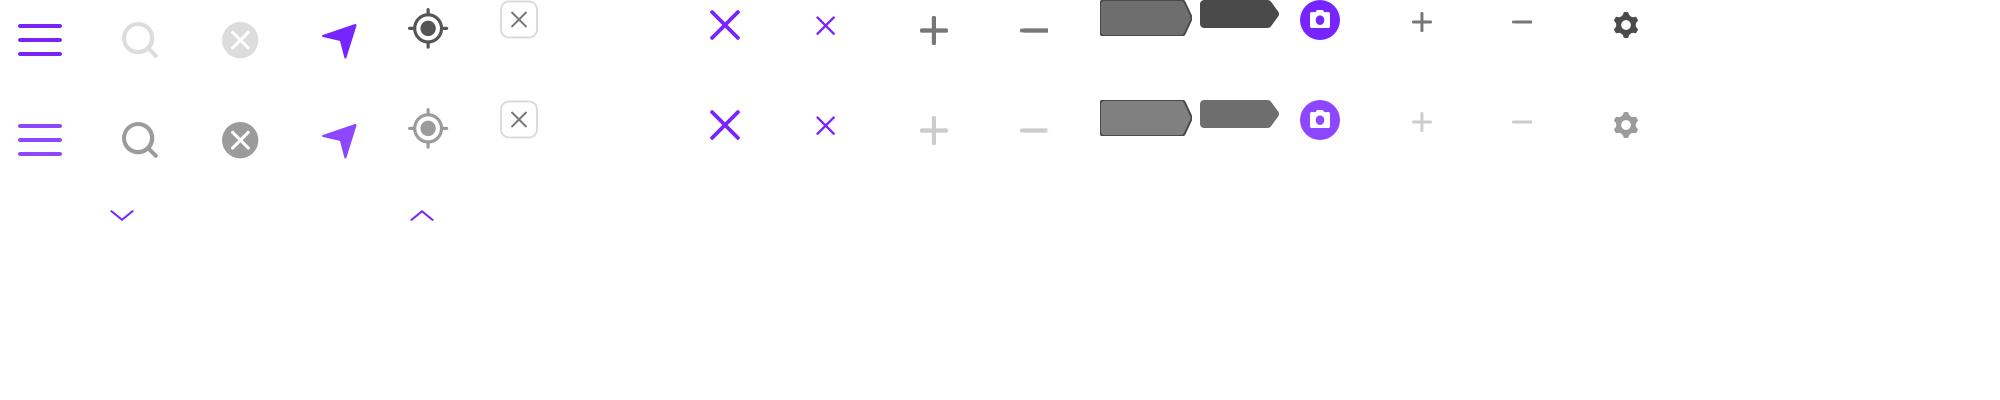
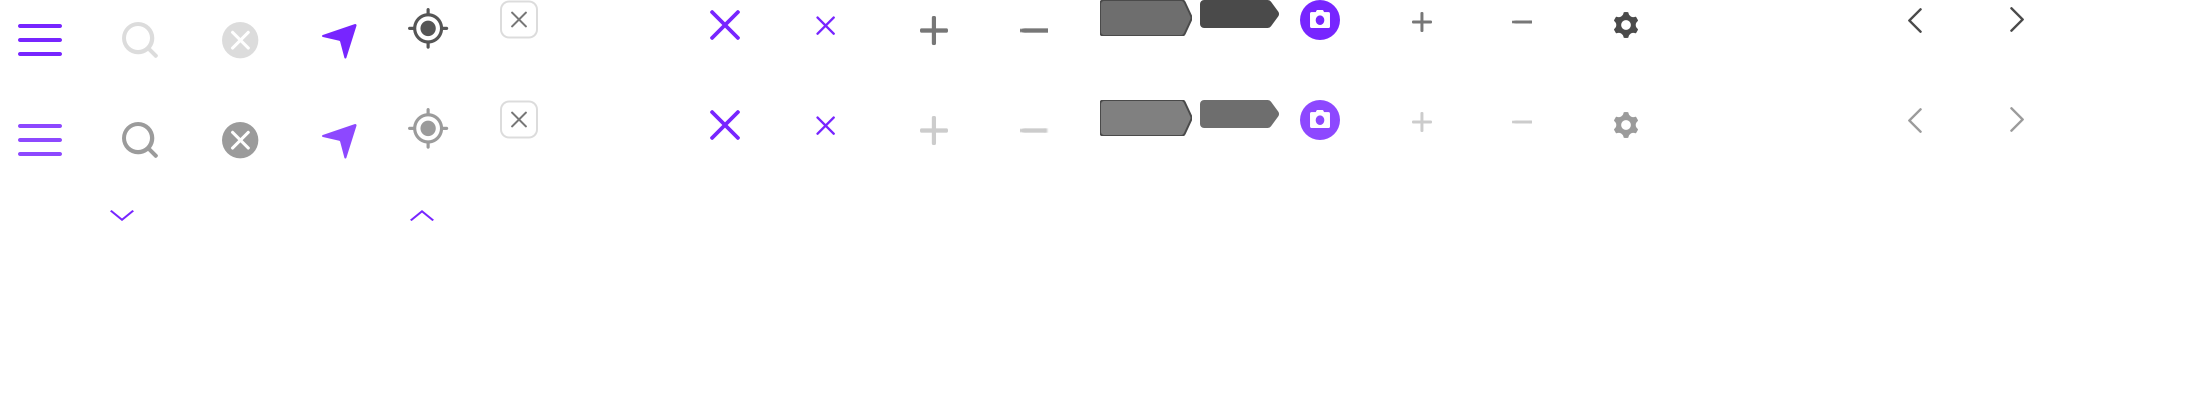
길찾기 검색결과 - 노드선택

diff --git a/mobile/css/gisweb_mobile.css b/mobile/css/gisweb_mobile.css
@@ -7,7 +7,7 @@ html,body{height:100%;word-break:break-all;word-wrap:break-word;}
 html,*,::before,::after{-moz-box-sizing:border-box;-webkit-box-sizing:border-box;box-sizing:border-box;-ms-text-size-adjust: 100%; -webkit-text-size-adjust: 100%;}
 html, body, div, span, object, iframe, h1, h2, h3, h4, h5, h6, p, blockquote, pre,a, abbr, acronym, address, big, cite, code, del, dfn, em, img, ins, kbd, q, s, samp,small, strike, strong, sub, sup, tt, var, b, u, i, dl, dt, dd, ol, ul, li,
 fieldset, form, label, legend, table, caption, tbody, tfoot, thead, tr, th, td,article, aside, canvas, details, embed, figure, figcaption, footer, header, hgroup, pre
-menu, nav, output, section, summary, time, mark, audio, video,input,textarea,select,button{margin:0;padding:0;font-family: 'Roboto', 'Noto Sans KR', sans-serif;font-size: 1em;}
+menu, nav, output, section, summary, time, mark, audio, video,input,textarea,select,button{margin:0;padding:0;font-family: 'Roboto', 'Noto Sans KR', sans-serif;font-size: 16px;}
 body,input,textarea,select,button,pre{outline: none;}
 textarea{resize:none;}
 select{-webkit-border-radius: 0px;}
@@ -33,5 +33,110 @@ input::-webkit-search-results-button,
 input::-webkit-search-results-decoration { display: none; }
 body{overflow: hidden;color: #4a4a4a;}
 a{color: #4a4a4a;}
+a:hover{text-decoration: none;}
 button,button:focus,button:active{padding: 0;}
 span{position:relative;}
+
+body{color: #4a4a4a;}
+
+.btnsBg{display: inline-block;background: url(../imgs/btns_01.png) no-repeat;text-indent: -9999px;background-size: auto 300px;}
+.iconsBg{display: inline-block;background: url(../imgs/icons_01.png) no-repeat;text-indent: -9999px;background-size: auto 200px;}
+.btnType1{min-width: 60px;height: 24px;padding: 0 10px;color: #fff;font-size: 12px;font-weight: bold;letter-spacing: -.5px;border: 1px solid #ccc;border-radius: 30px;}
+
+header{position: absolute;top: 0;right: 0;left: 0;height: 48px;background-color: #7725ff;}
+header h1{padding-top: 7px;text-align: center;}
+header h1 img{height: 32px;}
+.btnLnb{position: absolute;top: 3px;left: 3px;width: 40px;height: 40px;background-position: -50px 0px;}
+
+.wrapLnb{overflow-y: auto;position: fixed;z-index: 111;width: 300px;height: 100%;top: 0;left: -300px;background-color: #fff;transition:.3s;}
+.wrapLnb.view{left: 0;}
+.wrapLnb .wrapLogin{position: relative;height: 72px;background-color: #f5f5f5;}
+.wrapLnb .wrapLogin>a{display: block;height: 100%;padding-left: 64px;}
+.wrapLnb .wrapLogin .photo{position: absolute;top: 22px;left: 17px;display: inline-block;width: 30px;height: 30px;background-color: #ccc;border-radius: 30px;}
+.wrapLnb .wrapLogin .photo img{width: 30px;height: 30px;border-radius: 30px;}
+.wrapLnb .wrapLogin span{display: block;font-weight: 500;letter-spacing: -.5px;}
+.wrapLnb .wrapLogin .txt{color: #888;font-size: 14px;line-height: 72px;}
+.wrapLnb .wrapLogin.logined{padding-left: 64px;background-color: #7725ff;}
+.wrapLnb .wrapLogin .name{padding: 18px 0 2px;color: #fff;font-size: 14px;}
+.wrapLnb .wrapLogin .desc{color: #fff;font-size: 12px;font-weight: normal;}
+.wrapLnb .wrapLogin .btnType1{position: absolute;top: 22px;right: 20px;}
+.wrapLnb .list1{padding: 0 17px;}
+.wrapLnb .list1 ul{padding: 10px 0;border-bottom: solid 1px #dedede;}
+.wrapLnb .list1 ul:last-child{border-bottom: none;}
+.wrapLnb .list1 a{display: block;position: relative;height: 40px;line-height: 40px;font-size: 14px;letter-spacing: -.67px;}
+.wrapLnb .list1 a.disabled{opacity: .5;}
+.wrapLnb .list1 a.disabled:after{content: "coming soon";position: absolute;right: 0;bottom: 0;color: #999;font-size: 12px;letter-spacing: -.5px;}
+.wrapLnb .list1 a .iconsBg{width: 20px;height: 20px;margin-right: 10px;vertical-align: middle;}
+.wrapLnb .iconsBg.ic1{background-position-x: -0px;}
+.wrapLnb .iconsBg.ic2{background-position-x: -25px;}
+.wrapLnb .iconsBg.ic3{background-position-x: -50px;}
+.wrapLnb .iconsBg.ic4{background-position-x: -75px;}
+.wrapLnb .iconsBg.ic5{background-position-x: -100px;}
+.wrapLnb .list1.small{padding: 0px 0;border-top: solid 1px #dcdcdc;}
+.wrapLnb .list1.small li{height: 32px;line-height: 32px;padding-left: 20px;color: #999;font-size: 12px;}
+.wrapLnb .list1.small a{height: 32px;line-height: 32px;font-size: 12px;}
+.wrapLnb .banner{text-align: center;}
+.wrapLnb .banner img{width: 264px;height: 72px;margin-bottom: 10px;}
+
+.wrapSearch{position: absolute;top: 48px;right: 0px;left: 0px;padding: 0 8px;height: 24px;background-color: #7725ff;}
+.wrapSearch .innerInp{padding: 0 50px;background-color: #fff;box-shadow: 0 4px 4px 0 rgba(0, 0, 0, .2);border-radius: 16px;}
+.wrapSearch input[type="search"]{width: 100%;height: 48px;line-height: 50px;border: none;border-radius: 1px;}
+.wrapSearch .innerInp .btnsBg{position: absolute;top: 4px;width: 40px;height: 40px;}
+.wrapSearch .innerInp .btnSearch{left: 15px;background-position-x: -100px;}
+.wrapSearch .innerInp .btnRoadFind{right: 15px;background-position-x: -200px;}
+
+.floatMenuLeft{position: absolute;top: 110px;left: 12px;}
+.floatMenuLeft .myAccessLoc{width: 40px;height: 40px;margin-bottom: 12px;border: solid 1px #dcdcdc;background-color: #ffffff;box-shadow: 0 2px 4px 0 rgba(0, 0, 0, 0.12);border-radius: 20px;}
+.floatMenuLeft .myAccessLoc .btnsBg{width: 24px;height: 24px;background-position: 0 -50px;}
+.floatMenuLeft .zoom{width: 40px;border: solid 1px #dcdcdc;background-color: #ffffff;box-shadow: 0 2px 4px 0 rgba(0, 0, 0, 0.12);border-radius: 20px;}
+.floatMenuLeft .zoom button{width: 38px;height: 34px;}
+.floatMenuLeft .zoom button:first-child{border-bottom: 1px solid #dcdcdc;}
+.floatMenuLeft .zoom .btnsBg{width: 20px;height: 20px;}
+.floatMenuLeft .zoom .btnZoomIn{background-position: -50px -50px;}
+.floatMenuLeft .zoom .btnZoomOut{background-position: -100px -50px;}
+
+.floatMenuRight{}
+.floatMenuRight.view:after{content:"";display: block;position: absolute;z-index: 99;top: 0;right: 0;bottom: 0;left: 0;background: rgba(0,0,0,.7);}
+.floatMenuRight .rnb{position: absolute;z-index: 100;top: 110px;right: 12px;}
+.floatMenuRight li{position: absolute;right: 12px;margin-bottom: 16px;}
+.floatMenuRight.view li{position: relative;}
+.floatMenuRight .btnsBg{width: 44px;height: 44px;text-indent: -9999px;border: solid 1px #dcdcdc;background-color: #fff;box-shadow: 0 4px 4px 0 rgba(0, 0, 0, 0.3);border-radius: 40px;}
+.floatMenuRight.view .btnsBg{text-indent: -100px;}
+.floatMenuRight .btnsBg.btnClose{text-indent: -9999px;background-color: #dcdcdc;background-position: -142px -42px;}
+.floatMenuRight .btnsBg span{color: #fff;font-size: 12px;font-weight: 500;letter-spacing: -.6px;}
+.floatMenuRight .btnsBg.btnMap1{background-position: -0px -100px;}
+.floatMenuRight .btnsBg.btnMap2{background-position: -50px -100px;}
+.floatMenuRight .btnsBg.btnTraffic{background-position: -100px -100px;}
+.floatMenuRight .btnsBg.on{background-position-y: -150px !important;}
+.floatMenuRight .toastMsg{display: table;position: absolute;z-index: 100;bottom: 0;width: 100%;height: 42px;background: rgba(0,0,0,.5);}
+.floatMenuRight .toastMsg>p{display: table-cell;height: 42px;color: #fff;font-size: 12px;font-weight: 500;letter-spacing: -.6px;line-height: 1.2;vertical-align: middle;text-align: center;}
+
+.dimmed{display: none;position: absolute;z-index: 110;top: 0;right: 0;bottom: 0;left: 0;background: rgba(0,0,0,.7);}
+
+.lypop{position: absolute;z-index: 199;top: 0;right: 0;bottom: 0;left: 0;background-color: #fff;}
+.lypop header .btnClose{position: absolute;top: 50%;right: 18px;width: 24px;height: 24px;margin-top: -13px;background-position: -200px -50px;}
+.lypop header .btnPrev{position: absolute;top: 50%;left: 5px;width: 40px;height: 40px;margin-top: -20px;background-position: -250px -0px;}
+.lypop header{position: relative;}
+
+.lypopLogin header{height: 72px;}
+.lypopLogin header h1{padding-top: 17px;}
+.lypopLogin .cont{text-align: center;}
+.lypopLogin .title{padding: 20px 0;color: #555;font-weight: 500;letter-spacing: -1px;line-height: 1;}
+.lypopLogin .snsList .btnsBg{width: 48px;height: 48px;margin: 0 6px;}
+.lypopLogin .snsList .btnsBg.ic_naver{background-position: -0px -200px;}
+.lypopLogin .snsList .btnsBg.ic_kakao{background-position: -50px -200px;}
+.lypopLogin .snsList .btnsBg.ic_facebook{background-position: -100px -200px;}
+.lypopLogin .snsList .btnsBg.ic_google{background-position: -150px -200px;}
+.lypopLogin .tx1{padding: 26px 0;color: #777;font-size: 12px;letter-spacing: -.7px;line-height: 1.6;}
+.lypopLogin .certKey{margin: 0 12px;border-top: 1px solid #f5f5f5;}
+.lypopLogin .tx2{padding: 16px 0;color: #555;font-size: 14px;font-weight: 500;line-height: 1;}
+.lypopLogin .certKey .inner{padding: 0 30px;}
+.lypopLogin .certKey .inner textarea{width: 100%;height: 64px;margin-bottom: 8px;padding: 10px;border: 1px solid #ccc;border-radius: 8px;}
+.lypopLogin .certKey .inner button{width: 100%;height: 44px;color: #fff;font-size: 16px;font-weight: 500;letter-spacing: -1px;background-color: #7725ff;border-radius: 8px;}
+
+.lypopBookmark header{height: 64px;line-height: 64px;}
+.lypopBookmark header .title{padding-left: 50px;color: #fff;font-weight: 500;letter-spacing: -.8px;}
+.lypopBookmark .myPosition{border-bottom: 1px solid #dedede;}
+.lypopBookmark .myPosition a{display: block;}
+.lypopBookmark .myPosition .iconsBg{width: 20px;height: 20px;}
+

diff --git a/mobile/html/main.html b/mobile/html/main.html
@@ -18,14 +18,140 @@
 	<!-- //지도영역 -->
 
 	<header>
-		<button class="btnsBg btnLnb">메뉴</button>
-		<h1>kt Geo Master</h1>
+		<button class="btnsBg btnLnb" onclick="javascript:fncLnbOpen();">메뉴</button>
+		<h1><a href="#"><img src="../imgs/kt_geo_master.png" alt="kt Geo Master"></a></h1>
 	</header>
-	<div class="wrapSearch">
-		<div class="innerInp">
-			<input type="text">
+
+	<!-- LNB -->
+	<div class="wrapLnb">
+		<!-- 로그인 전 -->
+		<div id="loginBefore" class="wrapLogin">
+			<a href="#" onclick="javascript:fncLogin();">
+				<span class="photo"><img src="../imgs/data/dummy_login.png" alt="더미이미지"></span>
+				<span class="txt">로그인 해주세요.</span>
+			</a>
+		</div>
+		<!-- 로그인 전 -->
+
+		<!-- 로그인 후 -->
+		<div id="loginAfter" class="wrapLogin logined" style="display: none;">
+			<span class="photo"><img src="../imgs/data/@Tulips.jpg" alt="유저이미지"></span>
+			<span class="name">Aasdfasdf</span>
+			<span class="desc">Naver 계정으로 로그인중</span>
+			<button class="btnType1" onclick="javascript:fncLogout();">로그아웃</button>
+		</div>
+		<!-- //로그인 후 -->
+
+		<div class="list1">
+			<ul>
+				<li><a href="#"><span class="iconsBg ic1"></span>검색</a></li>
+				<li><a href="#"><span class="iconsBg ic2"></span>길찾기</a></li>
+				<li><a href="#" class="disabled"><span class="iconsBg ic3"></span>버스</a></li>
+				<li><a href="#" class="disabled"><span class="iconsBg ic4"></span>지하철</a></li>
+			</ul>
+			<ul>
+				<li><a href="#" onclick="javascript:fncMyBookmark();"><span class="iconsBg ic5"></span>내 즐겨찾기</a></li>
+			</ul>
+		</div>
+		<div class="list1 small">
+			<ul>
+				<li>지도범례</li>
+				<li><a href="https://apilink.kt.co.kr/Geomaster" target="_blank">지도 Open API</a></li>
+				<li>KT GEO Master 소개</li>
+			</ul>
+		</div>
+		<div class="banner">
+			<a href="https://apilink.kt.co.kr/Geomaster" target="_blank"><img src="../imgs/data/banner_contract.png" alt="KT GIS 플랫폼 서비스 신규 계약안내"></a>
+			<a href="#"><img src="../imgs/data/banner_onenavi.png" alt="당신이 찾는 모든 길 안내 - 원내비"></a></li>
 		</div>
 	</div>
+	<!-- //LNB -->
+
+	<!-- 로그인 팝업 -->
+	<div class="lypop lypopLogin" style="display: none;">
+		<header>
+			<h1><img src="../imgs/kt_geo_master.png" alt="kt Geo Master"></h1>
+			<button class="btnsBg btnClose" onclick="javascript:fncLypooLoginClose();">닫기</button>
+		</header>
+		<div class="cont">
+			<div class="title">소셜 간편 로그인</div>
+			<div class="snsList">
+				<a href="#" class="btnsBg ic_naver">네이버 아이디로 로그인</a>
+				<a href="#" class="btnsBg ic_kakao">카카오 아이디로 로그인</a>
+				<a href="#" class="btnsBg ic_facebook">페이스북 아이디로 로그인</a>
+				<a href="#" class="btnsBg ic_google">구글 아이디로 로그인</a>
+			</div>
+			<div class="tx1">원내비와 동일한 소설계정으로 로그인하시면 <br>원내비와 연계된 서비스를 이용할 수 있습니다.</div>
+			<div class="certKey">
+				<div class="tx2">KT Geo master 기업회원</div>
+				<div class="inner">
+					<textarea name="" id="" placeholder="Geo master 인증키를 입력하세요."></textarea>
+					<button>로그인</button>
+				</div>
+			</div>
+		</div>
+	</div>
+	<!-- //로그인 팝업 -->
+
+	<!-- 내 즐겨찾기 -->
+	<div class="lypop lypopBookmark">
+		<header>
+			<button class="btnsBg btnPrev" onclick="javascript:();">이전</button>
+			<div class="title">내 즐겨찾기</div>
+			<button class="btnsBg btnClose" onclick="javascript:fncLypooBookmark();">닫기</button>
+		</header>
+		<div class="myPosition">
+			<a href="#">
+				<span class="iconsBg"></span>
+				<span class="tx1">집</span>
+				<span class="address">PC에서 등록 가능합니다.</span>
+			</a>
+			<a href="#">
+				<span class="iconsBg"></span>
+				<span class="tx1">직장</span>
+				<span class="address">PC에서 등록 가능합니다.</span>
+			</a>
+		</div>
+	</div>
+	<!-- //내 즐겨찾기 -->
+
+	<div class="wrapSearch">
+		<div class="innerInp">
+			<button class="btnsBg btnSearch">검색</button>
+			<input type="search" placeholder="장소, 주소 검색">
+			<button class="btnsBg btnRoadFind">길찾기</button>
+		</div>
+	</div>
+
+	<!-- 왼쪽 플로팅 메뉴 -->
+	<div class="floatMenuLeft">
+		<button class="myAccessLoc">
+			<span class="btnsBg">현재위치</span>
+		</button>
+		<div class="zoom">
+			<button><span class="btnsBg btnZoomIn">확대</span></button>
+			<button><span class="btnsBg btnZoomOut">축소</span></button>
+		</div>
+	</div>
+	<!-- //왼쪽 플로팅 메뉴 -->
+
+	<!-- 오른쪽 플로팅 메뉴 -->
+	<div class="floatMenuRight">
+		<div class="rnb">
+			<ul>
+				<li><button class="btnsBg btnClose">닫기</button></li>
+				<li><button class="btnsBg btnMap1"><span>일반지도</span></button></li>
+				<li><button class="btnsBg btnMap2 on"><span>위성지도</span></button></li>
+				<li><button class="btnsBg btnTraffic"><span>교통정보</span></button></li>
+			</ul>
+		</div>
+		<div class="toastMsg">
+			<p>설정에서 위치 기능 사용을 승인해 주세요.</p>
+		</div>
+	</div>
+	<!-- //오른쪽 플로팅 메뉴 -->
+
+	<div class="dimmed"></div>
 
 </body>
 </html>

diff --git a/mobile/js/common.js b/mobile/js/common.js
@@ -5,12 +5,6 @@ $(document).ready(function(){
 		$(this).addClass("focus");
 	}).focusout(function(){$(this).removeClass("focus");});
 
-	// Navi
-	$(".wrapNavi .menuTop li a").on("click", function(){
-		$(".wrapNavi .menuTop li a").removeClass("current");
-		$(this).addClass("current");
-	});
-
 	// 탭메뉴
 	$(".tabMenu a").click(function(){
 		$(this).parent().addClass("current");
@@ -29,4 +23,33 @@ $(document).ready(function(){
 		return false;
 	});
 
+	// RNB
+	$(".floatMenuRight .btnsBg").on("click", function(){
+		$(".floatMenuRight").addClass("view");
+	});
+	$(".floatMenuRight .btnClose").on("click", function(){
+		$(".floatMenuRight").removeClass("view");
+	});
+	$(".dimmed").on("click", function(){
+		$(".wrapLnb").removeClass("view");
+		$(".dimmed").css("display","none");
+	});
+
 });
+
+function fncLnbOpen(){
+	$(".wrapLnb").addClass("view");
+	$(".dimmed").css("display","block");
+}
+function fncLogin(){
+	$("#loginBefore").css("display","none");
+	$("#loginAfter").css("display","block");
+	$(".lypopLogin").css("display","block");
+}
+function fncLogout(){
+	$("#loginBefore").css("display","block");
+	$("#loginAfter").css("display","none");
+}
+function fncLypooLoginClose(){
+	$(".lypopLogin").css("display","none");
+}

diff --git a/css/gisweb_pc.css b/css/gisweb_pc.css
@@ -1105,6 +1105,11 @@ span{position:relative;}
 .innerMap.botRight:after{bottom: -7px;right: -10px;background-position-x: -32px;}
 .innerMap.botLeft:after{bottom: -7px;left: -10px;background-position-x: -48px;}
 .lyBox.innerMap .title{padding-left: 12px;}
+.lyBox.innerMap img.tbt{width: 30px;height: 35px;margin-right: 4px;}
+.lyBox.innerMap .routeMove{padding: 0 20px 10px;text-align: right;}
+.lyBox.innerMap .routeMove .btnsBg{width: 32px;height: 22px;border: 1px solid #ccc;border-radius: 4px;}
+.lyBox.innerMap .routeMove .btnsBg.btnPrev{background-position-x: -943px;}
+.lyBox.innerMap .routeMove .btnsBg.btnNext{background-position-x: -993px;}
 .lyBox.innerMap.simple .title{border-bottom: none;}
 .lyBox.innerMap .btnsSch.ic_bookmark{width: 20px;height: 20px;text-indent: -9999px;background-position-x: -150px;}
 .innerMap .info{margin-bottom: 4px;padding: 12px 90px 0 16px;font-size: 12px;letter-spacing: -.67px;}

diff --git a/html/navi_route.html b/html/navi_route.html
@@ -467,7 +467,18 @@
 	</div>
 	<!-- //길찾기 -->
 
-
+	<div class="lyBox innerMap botLeft simple" id="" style="left: 900px;bottom: 400px;">
+		<!-- class : topLeft, topRight, botRight, botLeft -->
+		<div class="title">
+			<img src="../imgs/data/tbt_sample.png" alt="" class="tbt">
+			우면산 터널 방명 우회전
+		</div>
+		<div class="routeMove">
+			<button class="btnsBg btnPrev">이전</button>
+			<button class="btnsBg btnNext">다음</button>
+		</div>
+		<button class="btnsSch btnClose">닫기</button>
+	</div>
 
 	<!-- 경로선택 -->
 	<div class="wayPointSelect">
